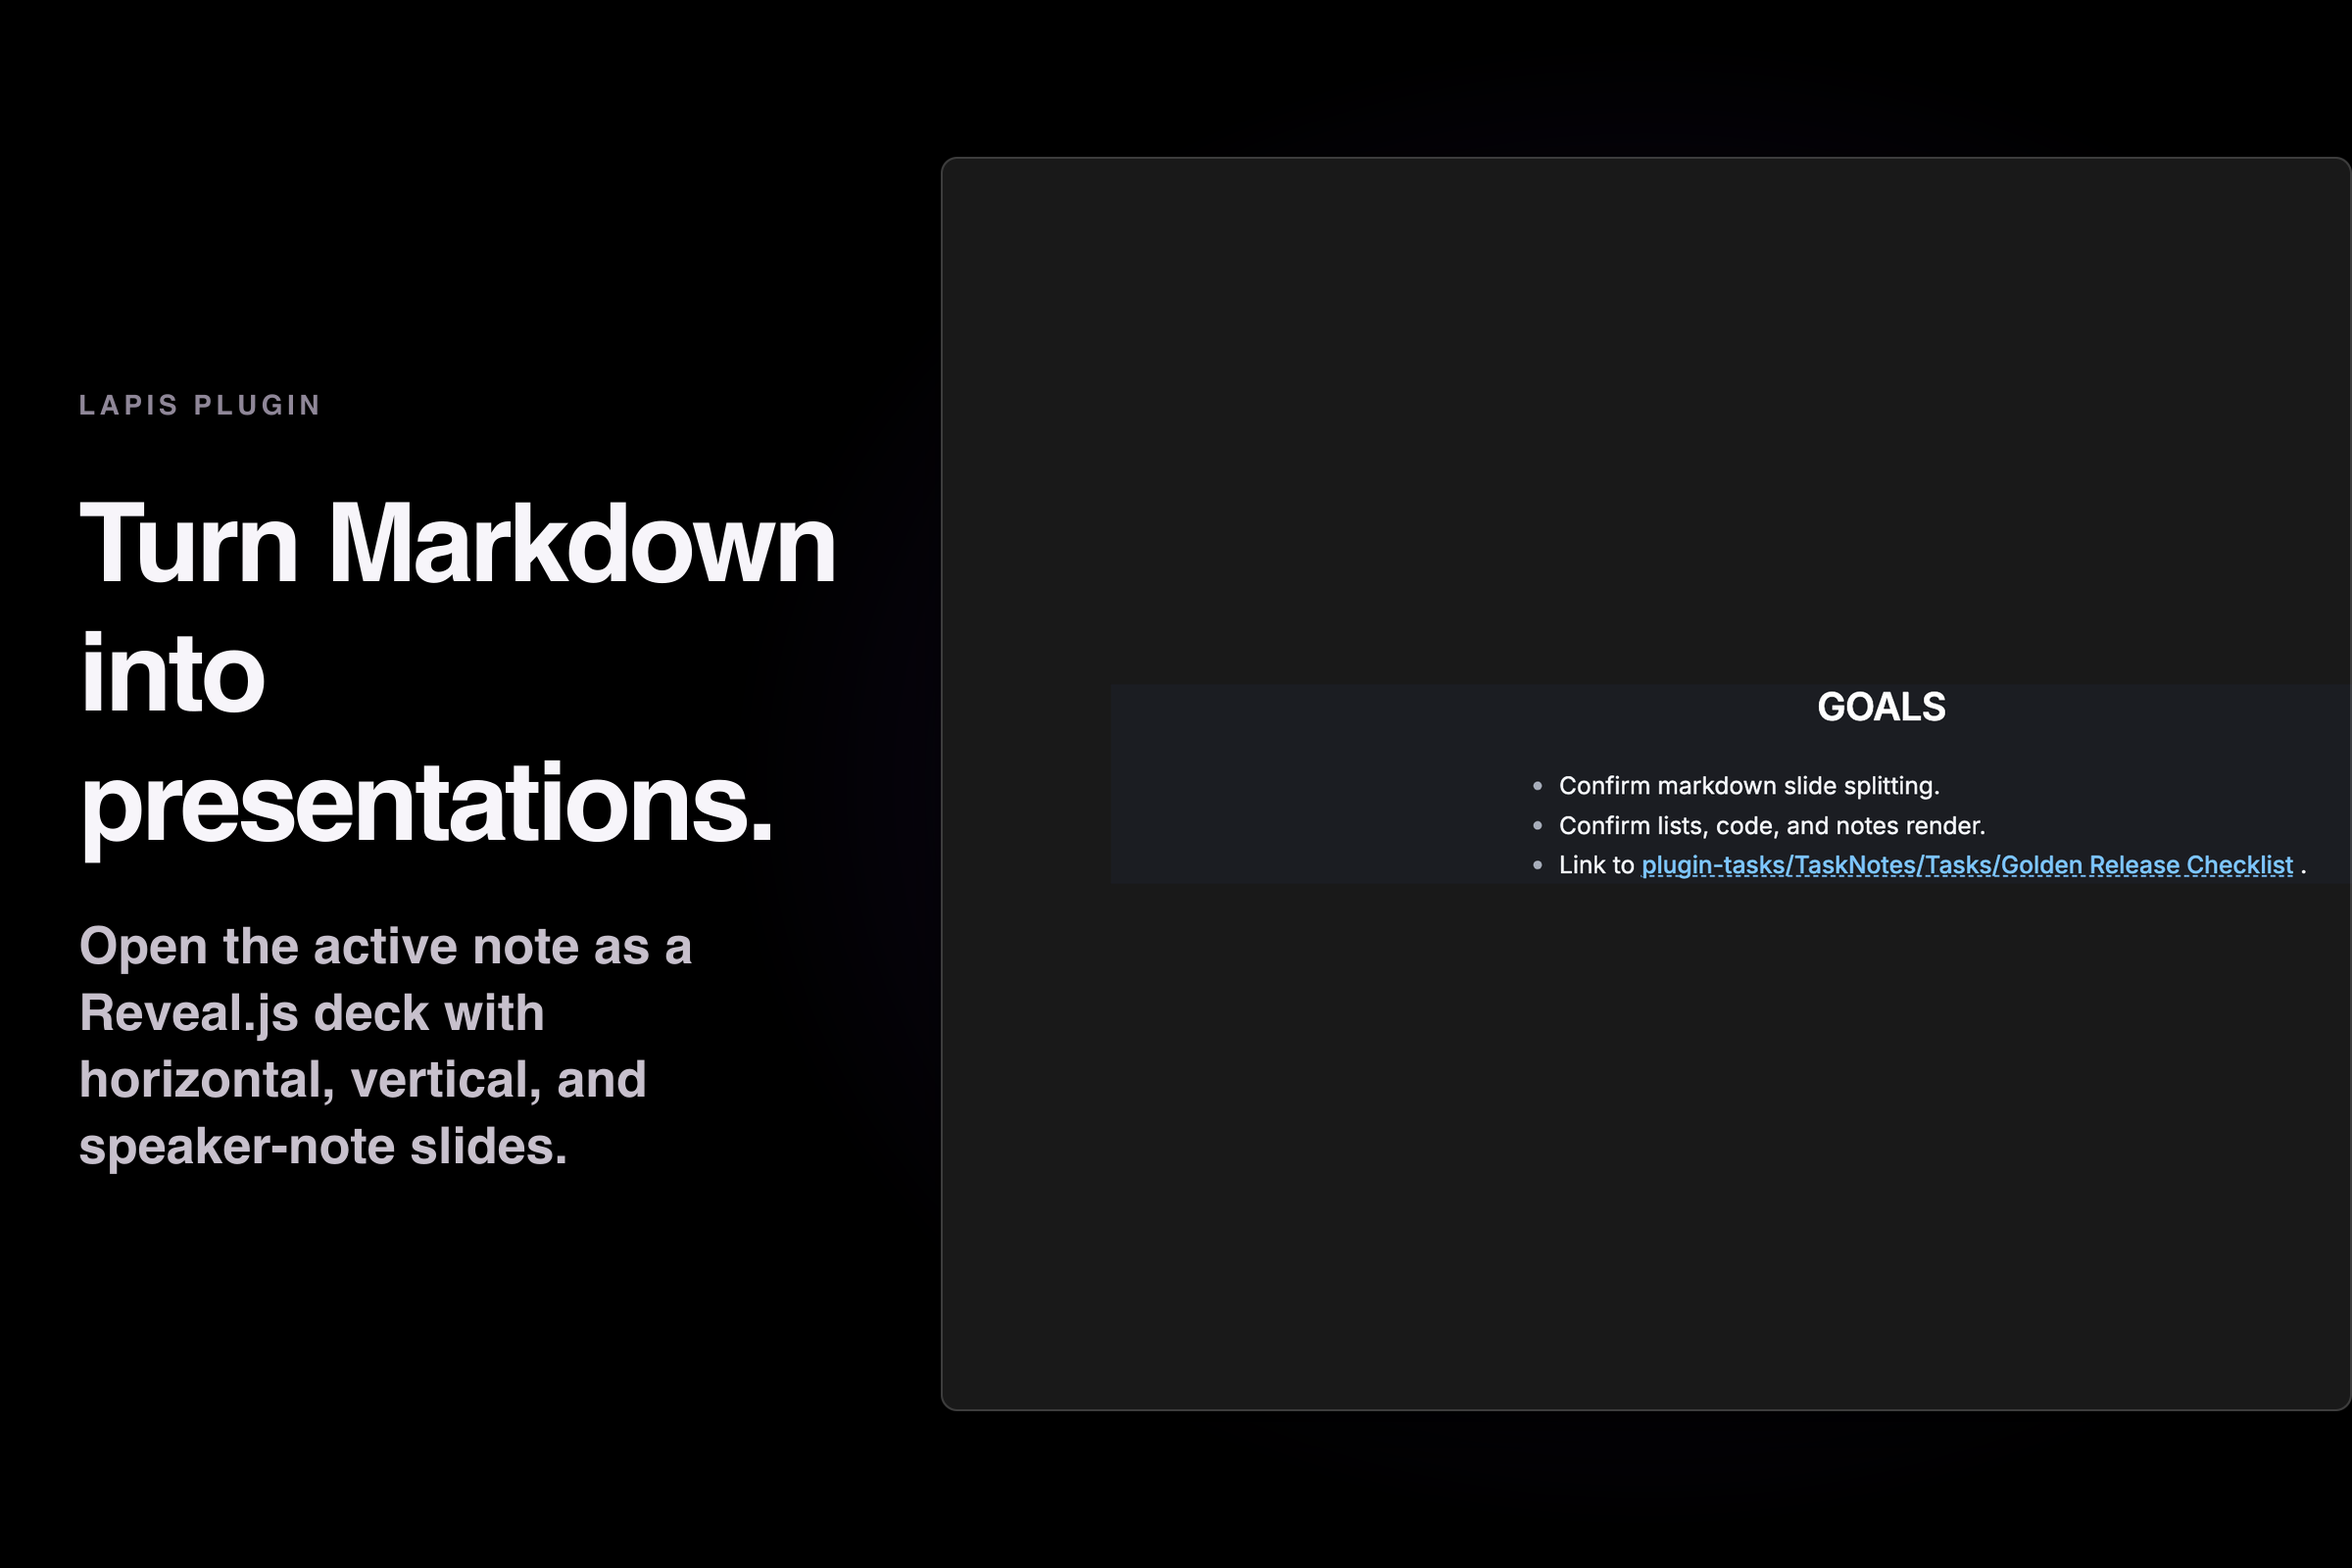
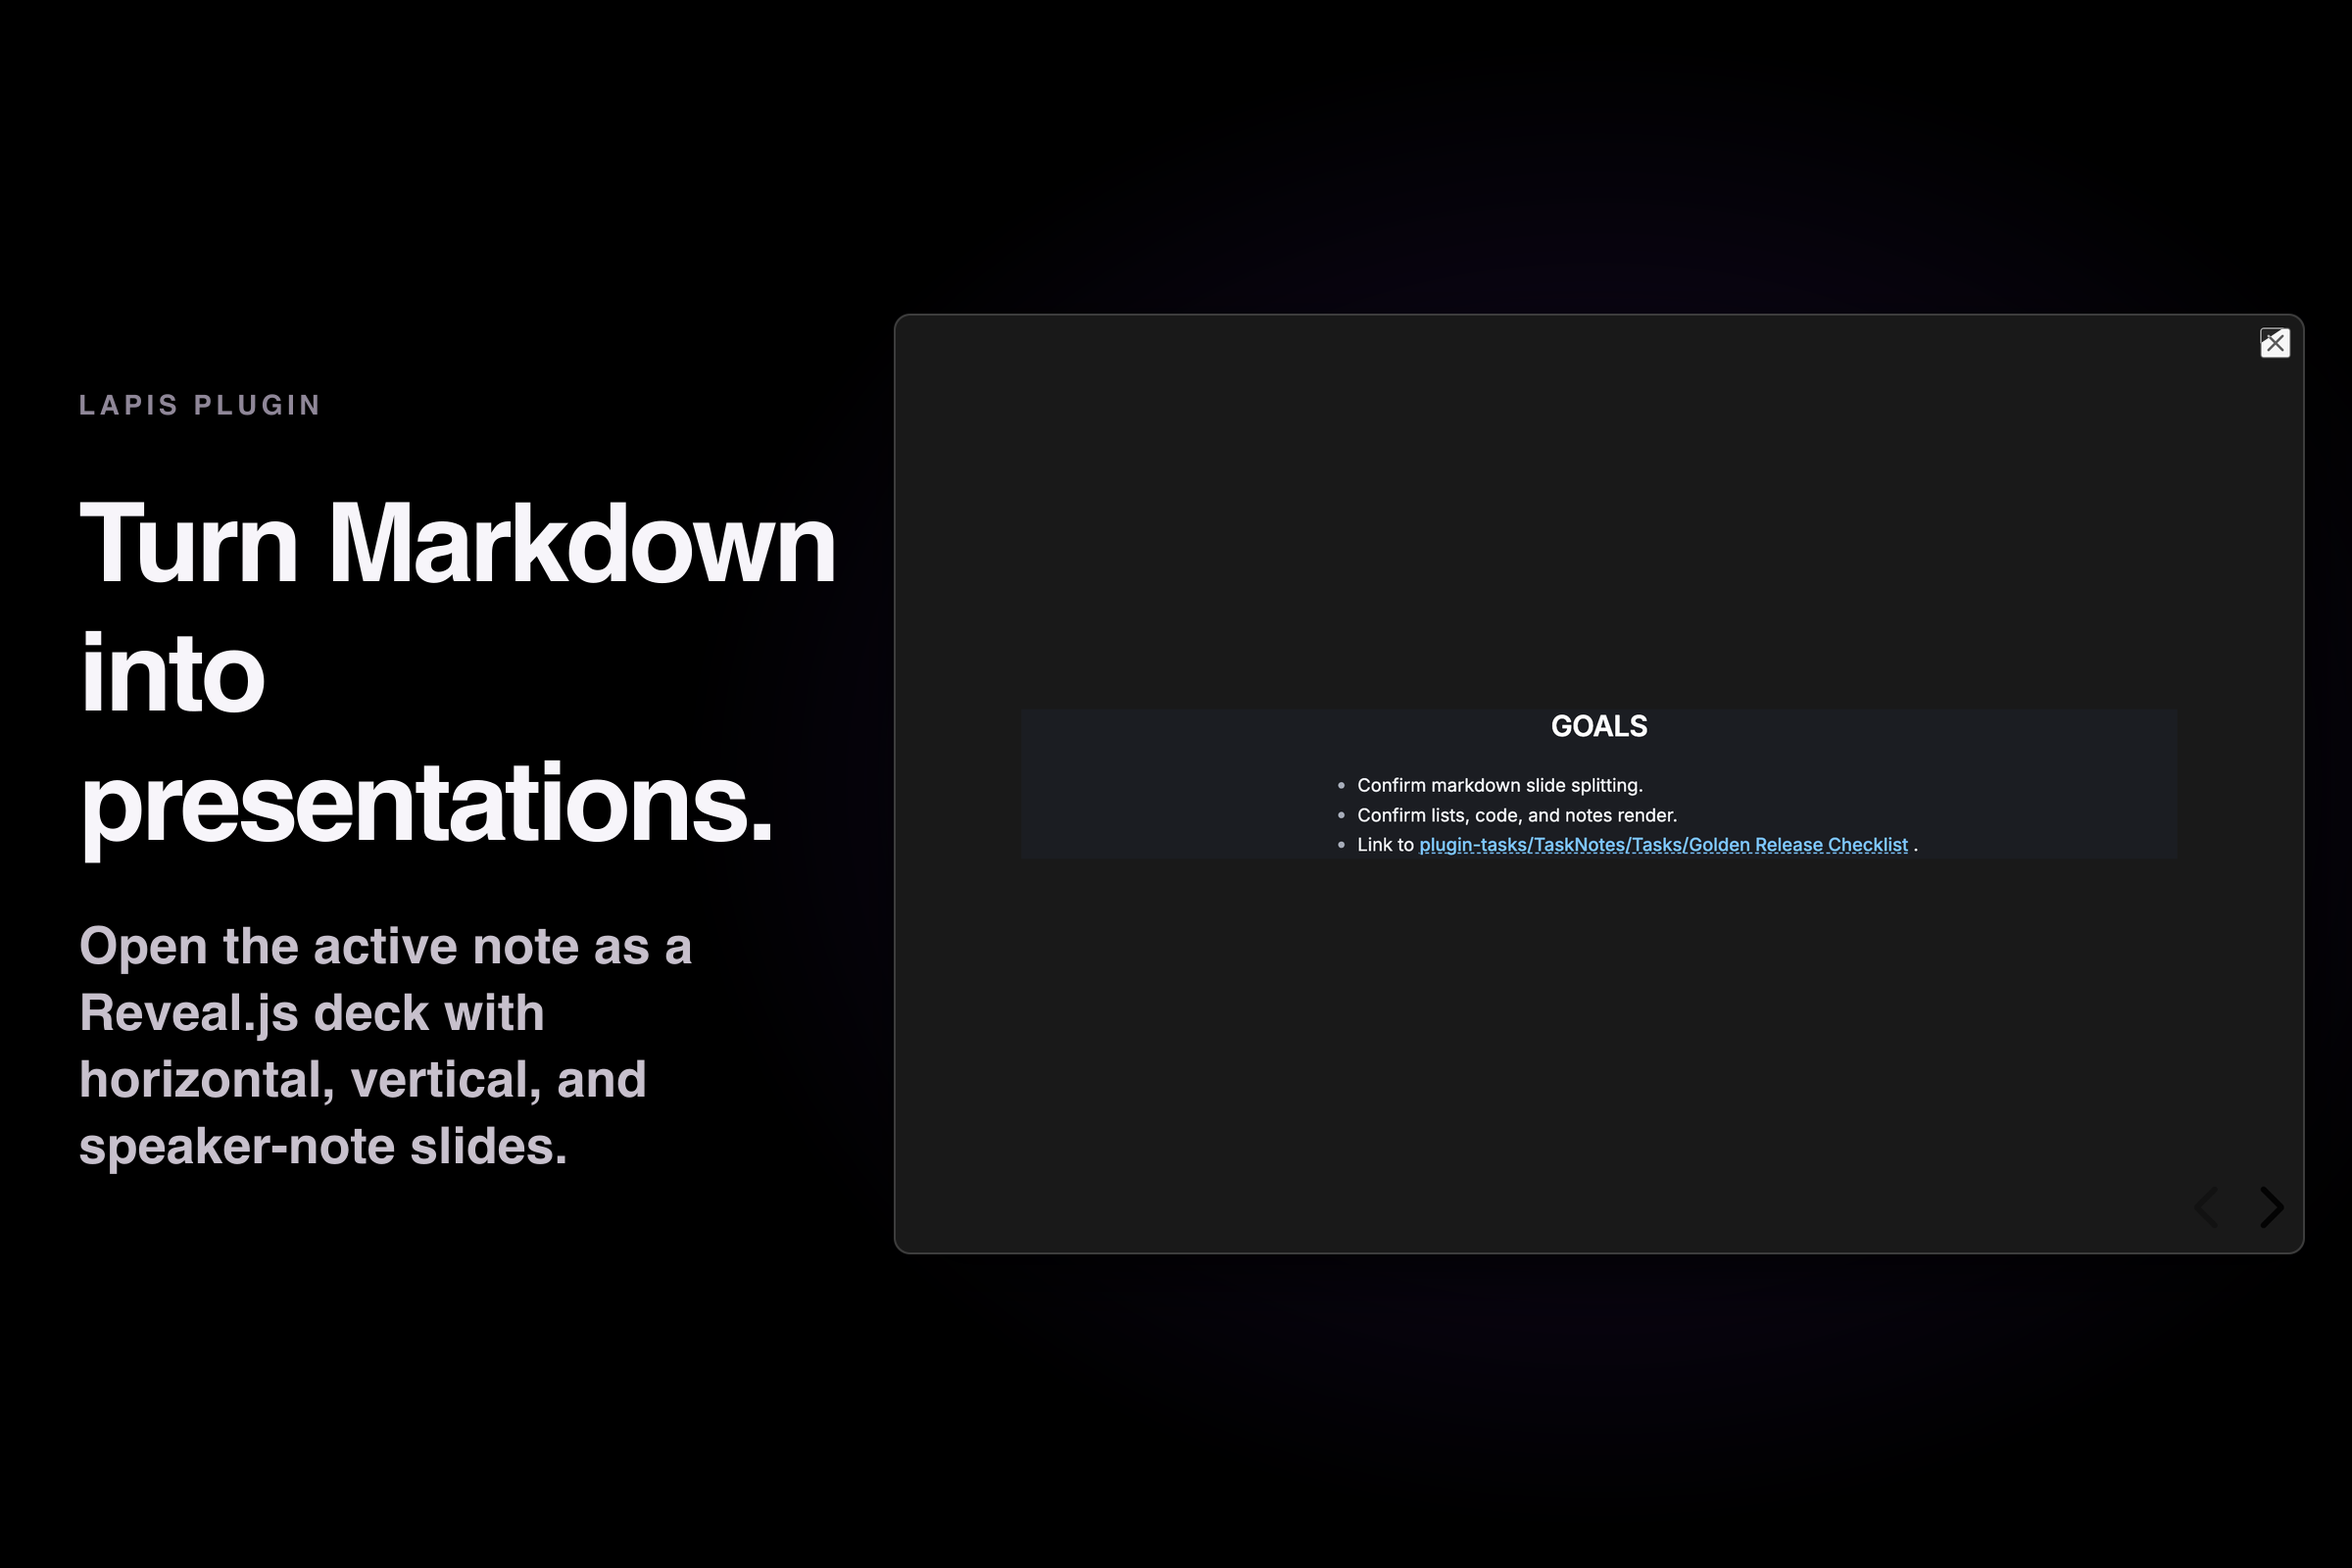
feat(slides): add themed registry media

diff --git a/stories/plugins/slides/RegistryScreenshots.stories.ts b/stories/plugins/slides/RegistryScreenshots.stories.ts
@@ -17,7 +17,7 @@ type Story = StoryObj<typeof meta>;
 
 function slidesApp(canvasElement: HTMLElement): App {
   const root = canvasElement.querySelector<HTMLElement & { __lapisApp?: App }>(
-    '[data-testid="slides-demo"]',
+    '[data-testid="slides-demo"]'
   );
   if (!root?.__lapisApp) throw new Error("Slides story has no explicit App");
   return root.__lapisApp;
@@ -29,13 +29,13 @@ export const Presentation: Story = {
     await waitFor(
       () => {
         expect(canvas.getByTestId("slides-demo-status")).toHaveTextContent(
-          "ready",
+          "ready"
         );
         expect(
-          canvasElement.querySelector('[data-app-shell-ready="true"]'),
+          canvasElement.querySelector('[data-app-shell-ready="true"]')
         ).not.toBeNull();
       },
-      { timeout: 20_000 },
+      { timeout: 20_000 }
     );
 
     const app = slidesApp(canvasElement);
@@ -48,7 +48,7 @@ export const Presentation: Story = {
     const deck = await waitFor(
       () => {
         const candidate = canvasElement.querySelector<HTMLElement>(
-          '[data-testid="slides-deck"]',
+          '[data-testid="slides-deck"]'
         );
         expect(candidate).not.toBeNull();
         expect(candidate?.dataset.revealReady).toBe("true");
@@ -56,7 +56,7 @@ export const Presentation: Story = {
         expect(app.workspace.getLeavesOfType(SlidesViewType)).toHaveLength(1);
         return candidate!;
       },
-      { timeout: 20_000 },
+      { timeout: 20_000 }
     );
 
     const deckCanvas = within(deck);
@@ -66,24 +66,24 @@ export const Presentation: Story = {
 
     await waitFor(() => {
       expect(
-        deckCanvas.getByRole("heading", { level: 2, name: "Goals" }),
+        deckCanvas.getByRole("heading", { level: 2, name: "Goals" })
       ).toBeVisible();
       expect(
-        deckCanvas.getByText("Confirm markdown slide splitting."),
+        deckCanvas.getByText("Confirm markdown slide splitting.")
       ).toBeVisible();
       expect(
-        deckCanvas.getByText("Confirm lists, code, and notes render."),
+        deckCanvas.getByText("Confirm lists, code, and notes render.")
       ).toBeVisible();
     });
 
     await new Promise((resolve) => setTimeout(resolve, 300));
     expect(
-      deckCanvas.getByRole("heading", { level: 2, name: "Goals" }),
+      deckCanvas.getByRole("heading", { level: 2, name: "Goals" })
     ).toBeVisible();
 
     expect(deck.querySelector(".controls")).toBeVisible();
     expect(
-      canvas.getByRole("button", { name: "Close presentation" }),
+      canvas.getByRole("button", { name: "Close presentation" })
     ).toBeVisible();
   },
 };

diff --git a/spec/src/plugins/slides/index.md b/spec/src/plugins/slides/index.md
@@ -28,9 +28,9 @@ the explicit source leaf when the presentation closes.
 | LN-SLIDES-010 | First-party source and Storybook code MUST receive `App` explicitly or derive it from the owning leaf. Slides MUST NOT read or assign `globalThis.app`. The plugin MUST declare portable `isDesktopOnly: false` behavior and MUST NOT add host-specific routing or installed-state policy. |
 | LN-SLIDES-011 | The public root MUST export default and named `SlidesPlugin`, `manifest`, `SlidesView`, and `SlidesViewType`; parser and presentation-tree internals MUST remain private. `@lapis-notes/api`, the Graph-matched Markdown range, and Svelte MUST be peers. Reveal.js, js-yaml, and Source Sans Pro MUST be bundled dependencies, with no Tailwind or raw `@lapis-notes/ui` stylesheet dependency. |
 | LN-SLIDES-012 | The official manifest MUST be unlocked, enabled by default once installed, ESM, reload-free, and require only `@lapis-notes/api` plus `@lapis-notes/markdown/embed` as authored shared runtime modules. Release bundling MUST externalize the exact compiler-emitted Svelte renderer ABI to the host peer without adding it to manifest `sharedDependencies`. Runtime and npm artifacts MUST be generated and verified through the common deterministic package and signed-archive pipeline. |
-| LN-SLIDES-013 | Package-owned registry metadata MUST use categories `presentation` and `markdown`, semantic icon `presentation`, legacy link-blue accent `#42AFFA`, end-user Overview and Changelog content, and one `presentation` gallery card with the governed headline, description, and alternative text. The active registry history MUST begin at `0.1.0`; legacy `2026.6.6` assets MUST NOT be imported. |
-| LN-SLIDES-014 | `Plugins/Slides/Registry Screenshots` MUST be an explicit-App, `registry-media`, `visual-pending` story. It MUST register public Markdown and Slides exports, seed and open `Release Walkthrough.md`, execute `lapis-slides:start-presentation`, navigate deterministically to Goals, wait for Reveal readiness, and assert the heading, list, controls, and close action before capture. |
-| LN-SLIDES-015 | Registry media MUST contain deterministic 1200x800 preview and 2400x1600 full WebPs for the `presentation` card. Package tests MUST cover parsing, both notes syntaxes, attributes, invalid YAML, command/menu guards, tab/source behavior, close/Escape, live refresh, index retention, and teardown. Visual Delta baselines MUST remain pending until separate approval. |
+| LN-SLIDES-013 | Package-owned registry metadata MUST use categories `presentation` and `markdown`, semantic icon `presentation`, legacy link-blue accent `#42AFFA`, end-user Overview and Changelog content, one fixed banner, and one `presentation` gallery card with the governed headline, description, and alternative text. The active registry history MUST begin at `0.1.0`; legacy `2026.6.6` assets MUST NOT be imported. |
+| LN-SLIDES-014 | `Plugins/Slides/Registry Screenshots` MUST provide one explicit-App `Presentation` story for both banner and gallery capture with `registry-media` and `visual-pending` governance. It MUST register public Markdown and Slides exports, seed and open `Release Walkthrough.md`, execute `lapis-slides:start-presentation`, navigate deterministically to Goals, wait for Reveal readiness, and assert the heading, list, controls, and close action before capture. |
+| LN-SLIDES-015 | Banner and `presentation` registry media MUST contain deterministic 1200x800 split preview plus 2400x1600 split, light, and dark WebPs. Package tests MUST cover parsing, both notes syntaxes, attributes, invalid YAML, command/menu guards, tab/source behavior, close/Escape, live refresh, index retention, and teardown. Visual Delta baselines MUST remain pending until separate approval. |
 
 ## Runtime flow
 

diff --git a/spec/src/verification.md b/spec/src/verification.md
@@ -498,9 +498,9 @@ and records repository-level extraction and release gates.
 | LN-SLIDES-010 | plugins/slides/index | Implemented | App-ownership audit and explicit-App Storybook fixtures reject ambient global App access while manifest checks retain portable host support. |
 | LN-SLIDES-011 | plugins/slides/index | Implemented | package build, declarations, publint, npm pack, boundary audit, and Graph-range assertions verify the public contract and dependency ownership. |
 | LN-SLIDES-012 | plugins/slides/index | Implemented | manifest, exact implicit-Svelte-ABI builder tests, deterministic signed archive reproduction, and signed Web installation verify the runtime contract. |
-| LN-SLIDES-013 | plugins/slides/index | Implemented | registry metadata checks cover presentation and markdown categories, semantic identity, source-owned content, and the fresh 0.1.0 history. |
-| LN-SLIDES-014 | plugins/slides/index | Implemented | the governed explicit-App registry story invokes the public command, reaches Goals deterministically, and asserts heading, list, controls, close, interaction, and axe behavior. |
-| LN-SLIDES-015 | plugins/slides/index | Implemented | media checks verify committed 1200x800 and 2400x1600 WebPs; package tests and signed browser acceptance cover parser, lifecycle, refresh, index retention, close, unload, restart, disable, and re-enable. |
+| LN-SLIDES-013 | plugins/slides/index | Implemented | registry metadata checks cover presentation and markdown categories, semantic identity, source-owned content, one fixed banner, one gallery card, and the fresh 0.1.0 history. |
+| LN-SLIDES-014 | plugins/slides/index | Implemented | the governed explicit-App Presentation story serves banner and gallery capture, invokes the public command, reaches Goals deterministically, and asserts heading, list, controls, close, interaction, and axe behavior. |
+| LN-SLIDES-015 | plugins/slides/index | Implemented | media checks verify deterministic banner and gallery split preview/full plus light/dark WebPs; package tests and signed browser acceptance cover parser, lifecycle, refresh, index retention, close, unload, restart, disable, and re-enable. |
 | LN-SRC-001 | plugins/source-editor/index | Implemented | Source Editor manifest, exports, unit tests, package build, publint, npm-pack, App-ownership audit, and signed archive verification. |
 | LN-SRC-002 | plugins/source-editor/index | Implemented | Source Editor manifest, exports, unit tests, package build, publint, npm-pack, App-ownership audit, and signed archive verification. |
 | LN-SRC-003 | plugins/source-editor/index | Implemented | Source Editor manifest, exports, unit tests, package build, publint, npm-pack, App-ownership audit, and signed archive verification. |

diff --git a/spec/src/registry-media.md b/spec/src/registry-media.md
@@ -58,13 +58,14 @@ Graph. History shows Explorer, Compare, and History. Markdown shows Backlinks,
 Live Preview, and File Properties. Bases uses the populated cover cards view.
 Bookmarks and Search show their primary panel on the left beside an empty main
 workspace. Markdown Lint, Source Editor, Spell Check, and Word Count use the
-complete shell with both sidebars closed.
+complete shell with both sidebars closed. Slides uses the full-screen Goals
+presentation.
 
 Overview media is intentionally selective. AI uses focused tool activity,
 Bases uses Grouped List, Graph uses the focused Global Graph, History uses
 Compare, Markdown uses Reading, Search uses open search filters, and Spell
 Check uses the editor action popover. Bookmarks, Markdown Lint, Source Editor,
-and Word Count omit Overview media because their available full-screen state
+Slides, and Word Count omit Overview media because their available full-screen state
 would repeat the banner rather than add useful context.
 
 Full-shell stories use the common 1200x800 application frame with Explorer
